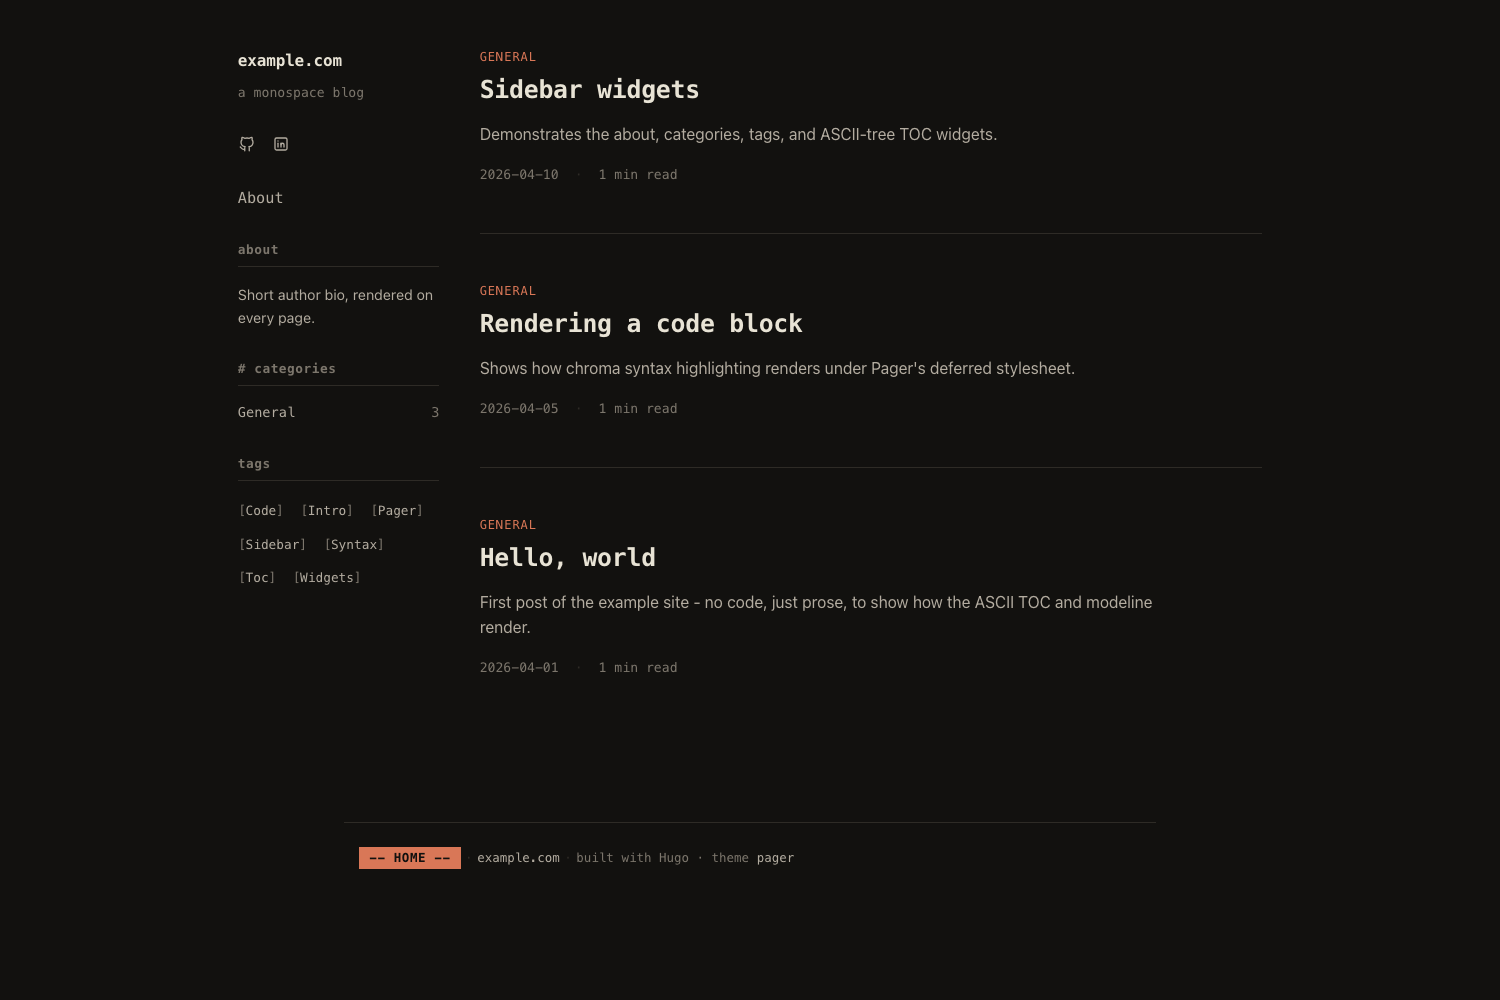
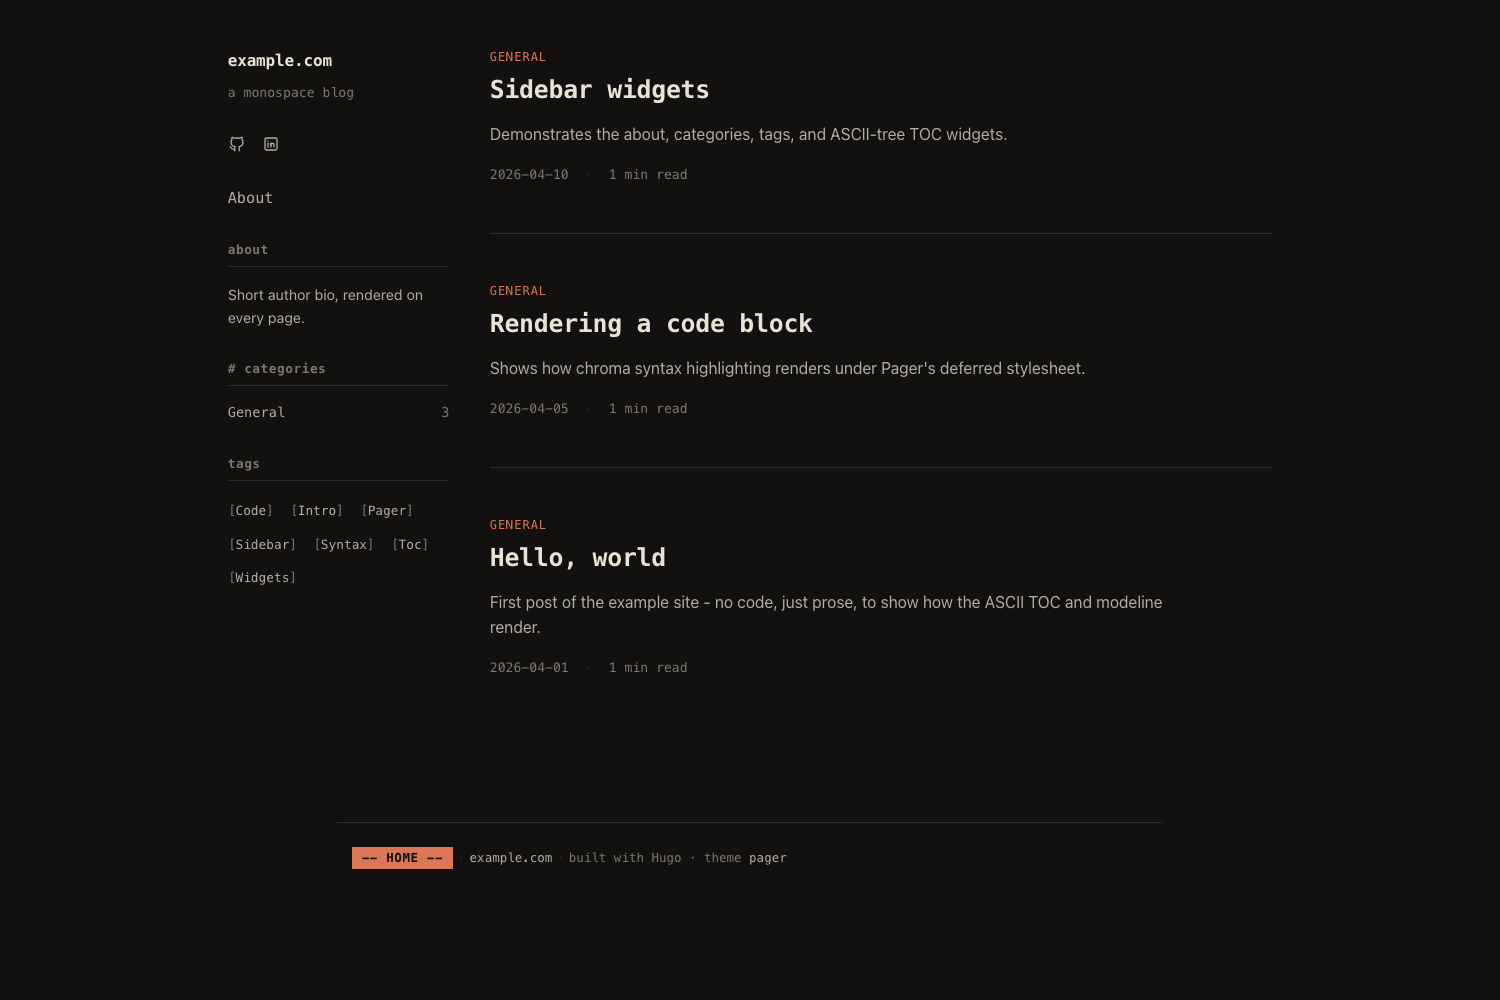
Add headless screenshot capture and refresh gallery (#4)
scripts/capture-screenshots.mjs builds exampleSite, serves it on an
ephemeral local port, and drives headless chromium through three
viewport / colour-scheme combinations to write the gallery PNGs.
Reproducible replacement for the manual capture flow that produced
the previous shots; the previous PNGs predated the system-monospace
chrome and the de-rounded kbd corners.

Wired as `npm run screenshots`. Playwright sits under
optionalDependencies so CI's `npm ci --ignore-scripts` skips the
browser-binary postinstall.

Quirk worth knowing: exampleSite/hugo.toml says `theme = "pager"`
but the repo dir is `hugo-theme-pager`. CI sidesteps this with
`path: pager` on checkout; the script does it with a temp
themes/pager symlink to the repo root, so a normal local clone
works too.

diff --git a/CHANGELOG.md b/CHANGELOG.md
@@ -7,6 +7,24 @@ and this project adheres to [Semantic Versioning](https://semver.org/spec/v2.0.0
 
 ## [Unreleased]
 
+### Added
+
+- `scripts/capture-screenshots.mjs` plus `npm run screenshots`. Builds
+  `exampleSite/`, serves it on an ephemeral local port, drives a
+  headless chromium through three viewport / colour-scheme
+  combinations, and writes the gallery PNGs to `images/`. Reproducible
+  replacement for the previous manual capture flow. Playwright is
+  declared under `optionalDependencies` so CI's
+  `npm ci --ignore-scripts` skips the browser-binary postinstall.
+- README "Maintainer notes" section pointing at the script.
+
+### Changed
+
+- Refreshed `images/screenshot.png`, `images/screenshot-dark.png`,
+  and `images/tn.png` against the current build. Picks up the
+  system-monospace chrome and headings, the de-rounded `kbd`
+  corners, and the current grid layout.
+
 ## [0.2.2]
 
 ### Added

diff --git a/README.md b/README.md
@@ -100,6 +100,22 @@ See `exampleSite/hugo.toml` for the full set. Widgets live under `[params.widget
 
 Search, comments, galleries, analytics, theme switcher UI, multilingual switcher UI, mermaid diagrams, and smooth-scroll. All deliberately absent. Add them yourself if you need them.
 
+## Maintainer notes
+
+Regenerate the gallery screenshots after any visible change:
+
+```
+npm install
+npx playwright install chromium  # one-time, per machine
+npm run screenshots
+```
+
+The script (`scripts/capture-screenshots.mjs`) builds `exampleSite/`,
+serves it on a local ephemeral port, drives headless chromium through
+three viewport / colour-scheme combinations, and writes
+`images/screenshot.png`, `images/screenshot-dark.png`, and
+`images/tn.png`. Run with `--help` for options.
+
 ## Credits
 
 - Icon paths derived from [Tabler Icons](https://tabler.io/icons) - MIT.
